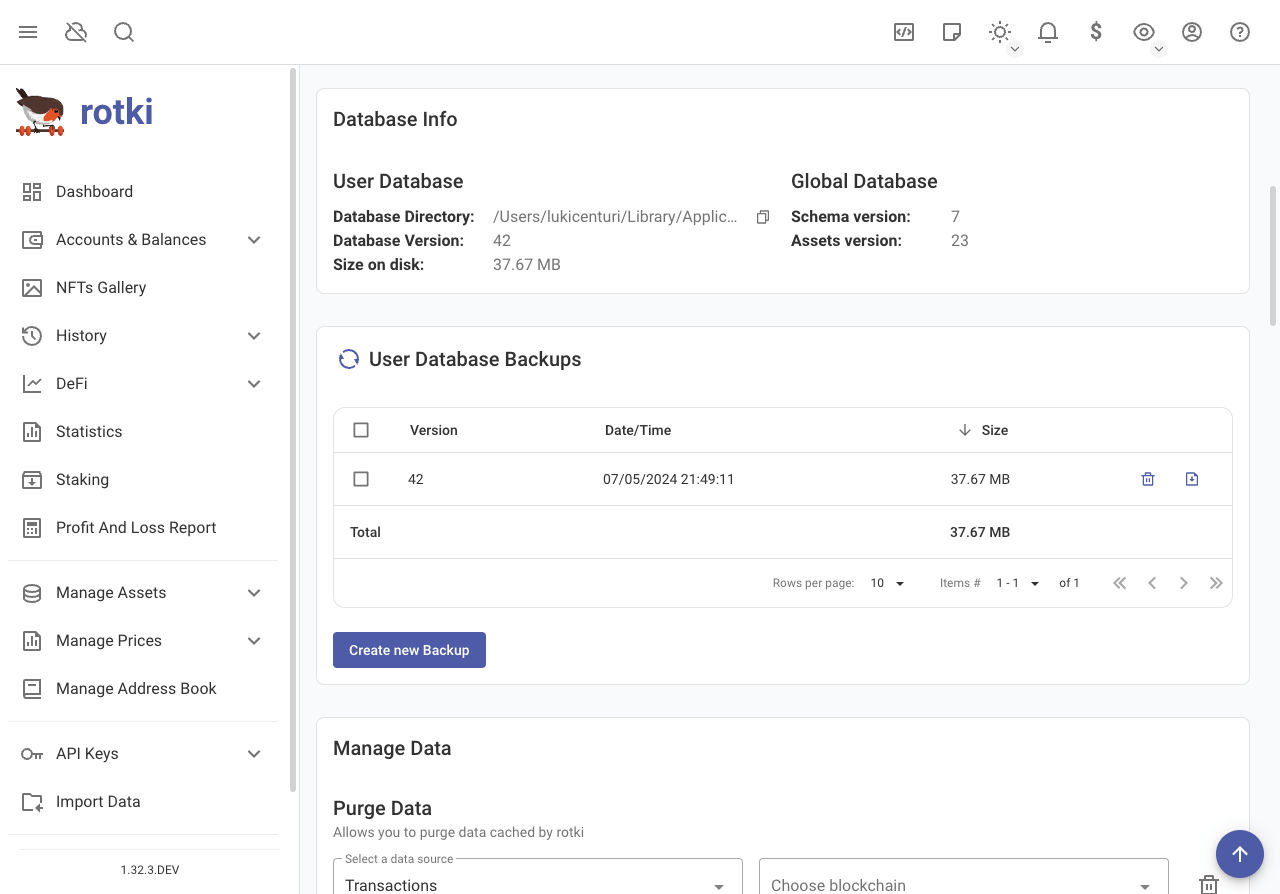
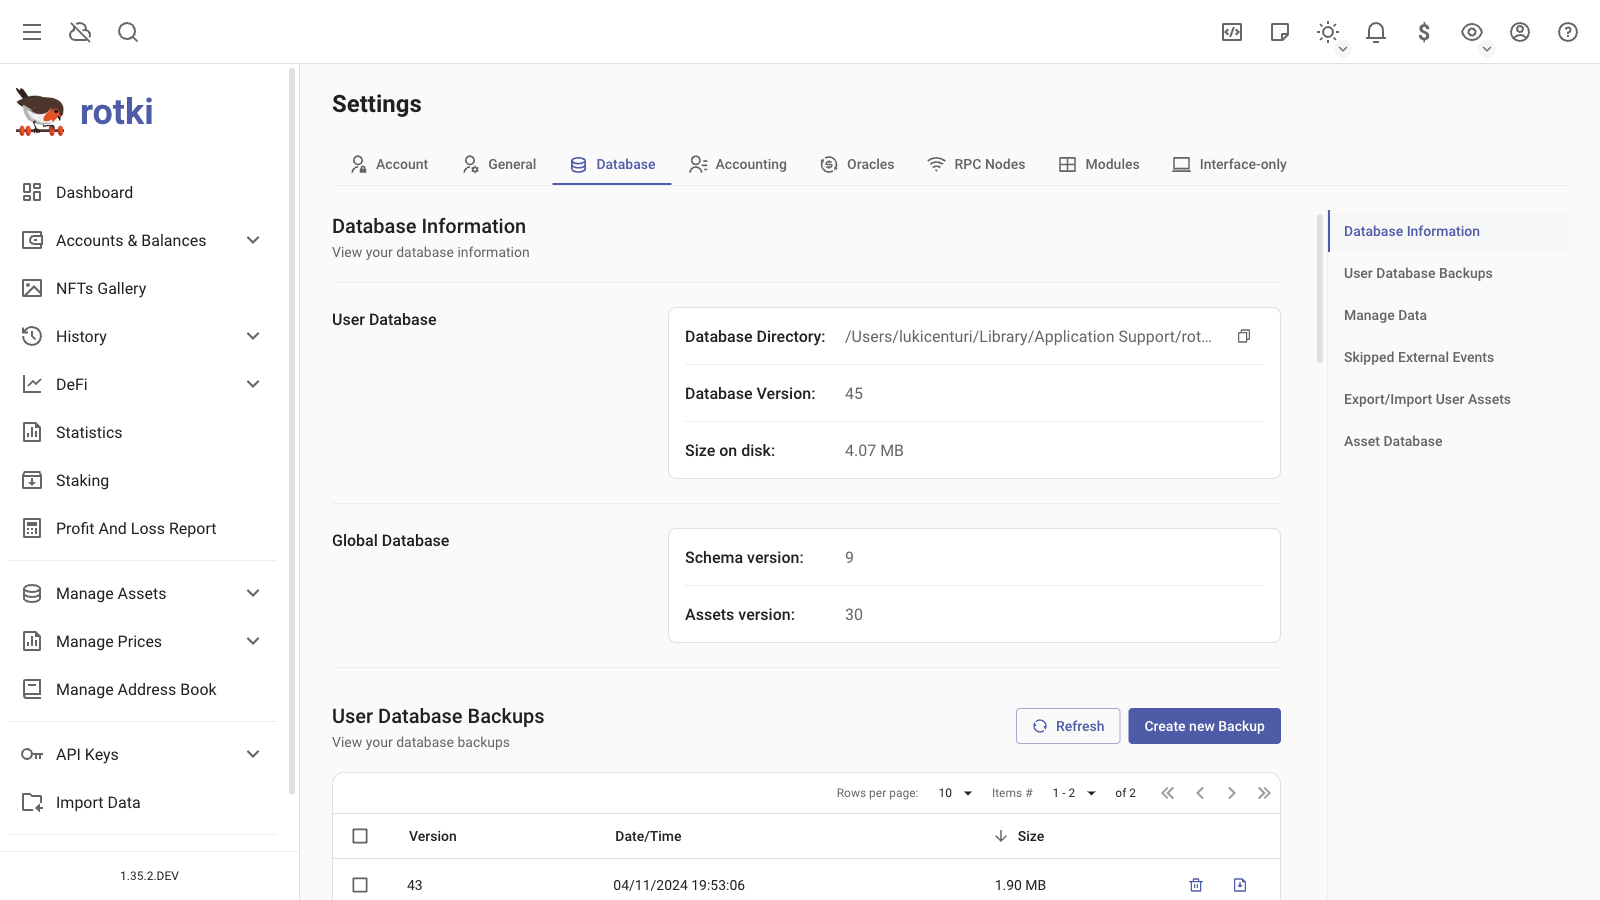
docs: update docs and screenshots for settings

diff --git a/usage-guides/customization.md b/usage-guides/customization.md
@@ -10,35 +10,43 @@ rotki calculates everything, including your total profit/loss during the PnL rep
 
 ## Application Settings
 
-Access the settings menu via `User icon → Settings`. By choosing the "General" settings button, you can customize general application settings.
+Access the settings menu via `User icon → Settings`.
+
+## Account Settings
+
+### Changing Password
+
+Choose the "User & Security" section to change the user password.
+
+![Changing the user's password](/images/sc_user_password_change.png)
+
+## General Settings
 
 ![Customizing the general app settings](/images/sc_general_settings.png)
-
-### General Settings
-
-#### Language
-
-> Set the language used in the app. This feature is experimental and may not work as expected for some languages. Help us speed up the translation process by contributing [here](/contribution-guides/contribute-as-developer.html#add-a-new-language-or-translation).
 
 #### Anonymous Usage Analytics
 
 > Specify whether the application can submit anonymous usage analytics. This helps measure active users while ensuring data is anonymized and contains no sensitive information.
 
+#### Auto detect tokens
+
+> Specify whether to automatically detect tokens and refresh balances by periodically checking historical events.
+
+#### CSV Export
+
+> Specify your preferred date format and delimiter for CSV exports.
+
+#### Automatic database sync
+
+> Whether to force push when a size discrepancy occurs during automatic db sync.
+
+#### Version update check
+
+> Set how often (in hours) the version will be checked for updates.
+
 #### Balance Data Saving Frequency
 
 > Set how often (in hours) the balance data is saved. This data helps calculate statistics and historical data for the user.
-
-#### Date Display Format
-
-> Set the date display format in the rotki user interface, such as `%m/%d/%Y %H:%M:%S` for month/day/year hour:minutes:seconds. Check [here](https://docs.python.org/3/library/datetime.html#strftime-and-strptime-format-codes) for valid formats.
-
-#### Display in Local Time
-
-> Choose whether to display local time or UTC in CSV exports, user logs, and other locations.
-
-#### BTC Derivation Gap Limit
-
-> Set the derivation gap limit for deriving addresses from a bitcoin xpub. More information [here](https://insights.blockonomics.co/bitcoin-what-is-this-gap-limit/).
 
 #### Treat Staked ETH as ETH
 
@@ -48,17 +56,25 @@ Access the settings menu via `User icon → Settings`. By choosing the "General"
 
 > Configure which EVM chains should not automatically detect tokens. By default, EVM chains detect activities of all registered EVM accounts in other EVM chains.
 
+#### BTC Derivation Gap Limit
+
+> Set the derivation gap limit for deriving addresses from a bitcoin xpub. More information [here](https://insights.blockonomics.co/bitcoin-what-is-this-gap-limit/).
+
+#### Date Format
+
+> Set the date display and date input format in the rotki user interface, such as `%m/%d/%Y %H:%M:%S` for month/day/year hour:minutes:seconds. Check [here](https://docs.python.org/3/library/datetime.html#strftime-and-strptime-format-codes) for valid formats.
+
 ### Amount Settings
 
 ![Customizing the app's amount settings](/images/sc_amount_settings.png)
 
-#### Floating Precision
-
-> Set the number of decimal points shown in the UI for floating point numbers.
-
 #### Main Currency
 
 > Same as [changing the profit currency](#profit-currency).
+
+#### Floating Precision
+
+> Set the number of decimal points shown in the UI for floating point numbers.
 
 #### Thousands Separator
 
@@ -68,7 +84,7 @@ Access the settings menu via `User icon → Settings`. By choosing the "General"
 
 > Set the symbol separating the floating part of a number, e.g., `5.42`.
 
-#### Use Abbreviations for Large Numbers
+#### Abbreviation for large numbers
 
 > If enabled, large numbers will be abbreviated, e.g., `1,234,567` as `1.23 M`. Set the minimum value to be abbreviated.
 
@@ -79,42 +95,6 @@ Access the settings menu via `User icon → Settings`. By choosing the "General"
 #### Amount Rounding
 
 > Choose the rounding mechanism: `Round up`, `Round down`, or `Half even`. Customize how amounts and values are rounded.
-
-### RPC Node Setting
-
-This setting lets you change the nodes used to connect to blockchains. We give you a list of public nodes, but sometimes they are busy or down. You will see a green or red icon showing if a node is working.
-
-It is good to add more nodes and set their priority. We always try your own nodes first, then use some random public nodes if needed. If you don't have your own node, we use public nodes.
-
-The node's weight (percentage) shows how likely it is to be used. You can turn nodes on or off with the toggle button.
-
-![Customizing the app's connection to EVM nodes](/images/rotki_nodes_management.png)
-
-In this menu you can also edit, delete or add more nodes.
-
-![Add an EVM node](/images/rotki_nodes_management_addition.png)
-
-### Local Nodes
-
-#### Connecting to a Kusama Client
-
-> rotki attempts to connect to a local Kusama node running on the default port `9933`. If no client is running, blockchain queries will use an external service.
-
-#### Connecting to a Polkadot Client
-
-> Set the RPC endpoint for a Polkadot node here.
-
-#### Connecting to an ETH Consensus Layer Beacon Node
-
-> Set the RPC endpoint for the Ethereum consensus layer beacon node. If unreachable, beaconcha.in will be used. For DAppNode Ethereum validator users, find the RPC node setting in the DAppNode Package for the Execution Client.
-
-### Price Oracle Settings
-
-![Customizing the app's price oracle settings](/images/sc_priceoracle_settings.png)
-
-Here, you can customize the order in which price oracles are queried, both for current and historical prices. This determines which price source to check first, second, and so on.
-
-DeFi oracles like Uniswap V2 and Uniswap V3 use only on-chain information to get current prices. This makes querying a bit slower, but it relies solely on the Ethereum chain. Prices for some assets may differ from Coingecko or CryptoCompare, depending on the conditions of the pools at the time of the query.
 
 ### NFT Settings
 
@@ -132,49 +112,42 @@ DeFi oracles like Uniswap V2 and Uniswap V3 use only on-chain information to get
 
 > Define rules for retry and timeout for external service calls made by rotki.
 
-### Frontend Only Settings
+## Database Settings
 
-![Customizing the app's frontend only settings](/images/sc_frontendonly_settings1.png)
+### Database Info & User Database Backups
 
-#### Animation Effect
+View information about your user and global database, such as directory, size, and version.
 
-> Reduce animation effects to improve performance. This affects animation quality but optimizes resource usage.
+![Creating database backups](/images/sc_db_backup.png)
 
-#### Alias Name for Addresses
+Create new database backups, delete backups, and download backups locally.
 
-> Enable or disable alias names for blockchain addresses. Aliases are obtained from `ENS`, `addressbook`, or `blockchain account label`. Change the order of resolution as needed.
+### Purging Data
 
-#### Data Scrambling
+rotki keeps a lot of data cached locally. Clean this data periodically from the "Manage Data" section in the settings. Remove specific exchanges by first removing any active API keys.
 
-> Enable data scrambling to randomize amounts, dates, and other data for privacy in screenshots. This setting does not persist across sessions.
+![Purging user data](/images/sc_purge_data.png)
 
-#### Dashboard Graph Default Timeframe
+### Exporting and Importing User Assets
 
-> Set the default timeframe for the dashboard graph, which will be pre-selected upon login.
+Use the export/import function to migrate user assets between computers. This function creates a zip archive of user assets for transfer.
 
-#### Graph Basis
+![Importing user assets](/images/sc_custom_import_export.png)
 
-> Configure whether the graph y-axis starts at 0 or the minimum amount for the period.
+::: warning
+This archive cannot be used as a backup/restore across different versions of rotki since there is no guarantee of compatibility across versions.
+:::
 
-#### Automatic Balance Refresh
+### Reset Assets Database
 
-> Enable or disable automatic balance refresh and set the refresh interval. Disabled by default due to potential slow queries and rate limits.
+There are two options to reset the assets database:
 
-#### Periodic Status Query
-
-> Set the frequency of backend data updates. Default is 5 seconds.
-
-![Customizing the app's frontend only settings](/images/sc_frontendonly_settings2.png)
-
-#### Blockchain Explorer Customization
-
-> Customize which explorer is used for transaction and address links.
-
-#### Theme [Premium]
-
-> Premium users can customize colors for light or dark mode.
+1. **Soft Reset**: This option will not reset assets added by the user.
+2. **Hard Reset**: This option will reset assets added by the user.
 
 ## Accounting Settings
+
+![Customizing the accounting rules](/images/sc_accounting_custom_rule.png)
 
 By choosing the "Accounting" settings button, you can customize application settings related to accounting calculations.
 
@@ -184,13 +157,11 @@ The default settings are currently tailored for the German tax jurisdiction. For
 
 ### Custom Accounting Rules
 
-![Customizing the accounting rules](/images/sc_accounting_custom_rule.png)
-
 Customize accounting rules based on `Event type`, `Event sub type`, and `Counterparty`.
 
 ### Trade Settings
 
-![Customizing the accounting trade settings](/images/sc_accounting_settings.png)
+![Customizing the accounting trade settings](/images/sc_accounting_trade_settings.png)
 
 #### Crypto to Crypto Trades
 
@@ -285,54 +256,51 @@ The above does not happen.
 
 > Specify whether the all_events CSV export should include a summary of all events and the total profit/loss at the end. This summary would also include the rotki version and the settings used during the PnL report, making it easier to reproduce a report run.
 
-## Data & Security Settings
+## Price Oracle Settings
 
-### Changing Password
+![Change the order of price sources](/images/sc_price_oracle_order.png)
 
-Choose the "User & Security" section to change the user password.
+Here, you can customize the order in which price oracles are queried, both for current and historical prices. This determines which price source to check first, second, and so on.
 
-![Changing the user's password](/images/sc_user_password_change.png)
+DeFi oracles like Uniswap V2 and Uniswap V3 use only on-chain information to get current prices. This makes querying a bit slower, but it relies solely on the Ethereum chain. Prices for some assets may differ from Coingecko or CryptoCompare, depending on the conditions of the pools at the time of the query.
 
-### Database Info & User Database Backups
+### Oracle cache
 
-View information about your user and global database, such as directory, size, and version.
-
-![Creating database backups](/images/sc_db_backup.png)
-
-Create new database backups, delete backups, and download backups locally.
-
-### Exporting and Importing User Assets
-
-Use the export/import function to migrate user assets between computers. This function creates a zip archive of user assets for transfer.
-
-![Importing user assets](/images/sc_custom_import_export.png)
-
-::: warning
-This archive cannot be used as a backup/restore across different versions of rotki since there is no guarantee of compatibility across versions.
-:::
-
-### Reset Assets Database
-
-There are two options to reset the assets database:
-
-1. **Soft Reset**: This option will not reset assets added by the user.
-2. **Hard Reset**: This option will reset assets added by the user.
-
-### Purging Data
-
-rotki keeps a lot of data cached locally. Clean this data periodically from the "Manage Data" section in the settings. Remove specific exchanges by first removing any active API keys.
-
-![Purging user data](/images/sc_purge_data.png)
-
-### Manage Historical Price Oracle Cache
+![Creating a historical price cache](/images/sc_historical_price_cache.png)
 
 Querying historical prices from oracles such as CryptoCompare and CoinGecko is slow and can be slower due to rate limiting. rotki creates historical price caches during idle times.
 
 Request the creation of such a cache by going to the Oracle cache section, selecting the oracle, the from asset of the pair, the to asset of the pair, and then pressing "Cache pair prices".
 
-![Creating a historical price cache](/images/sc_historical_price_cache.png)
-
 Manage existing historical price cache entries, inspect start and end dates, and delete caches if needed.
+
+## RPC Node Setting
+
+This setting lets you change the nodes used to connect to blockchains. We give you a list of public nodes, but sometimes they are busy or down. You will see a green or red icon showing if a node is working.
+
+It is good to add more nodes and set their priority. We always try your own nodes first, then use some random public nodes if needed. If you don't have your own node, we use public nodes.
+
+The node's weight (percentage) shows how likely it is to be used. You can turn nodes on or off with the toggle button.
+
+![Customizing the app's connection to EVM nodes](/images/rotki_nodes_management.png)
+
+In this menu you can also edit, delete or add more nodes.
+
+![Add an EVM node](/images/rotki_nodes_management_addition.png)
+
+### Local Nodes
+
+#### Connecting to a Kusama Client
+
+> rotki attempts to connect to a local Kusama node running on the default port `9933`. If no client is running, blockchain queries will use an external service.
+
+#### Connecting to a Polkadot Client
+
+> Set the RPC endpoint for a Polkadot node here.
+
+#### Connecting to an ETH Consensus Layer Beacon Node
+
+> Set the RPC endpoint for the Ethereum consensus layer beacon node. If unreachable, beaconcha.in will be used. For DAppNode Ethereum validator users, find the RPC node setting in the DAppNode Package for the Execution Client.
 
 ## Module Settings
 
@@ -351,6 +319,52 @@ View all modules in the table. Some are activated by default. Enable/disable a m
 ![Select address for modules](/images/module_settings_select_address.png)
 
 To limit querying to selected addresses, click the "edit/pencil" button on the module to select addresses. If no addresses are selected, rotki checks all eligible addresses, increasing query duration.
+
+## Interface-only Settings
+
+![Customizing the app's interface only settings](/images/sc_interface_only_settings.png)
+
+#### Language
+
+> Set the language used in the app. This feature is experimental and may not work as expected for some languages. Help us speed up the translation process by contributing [here](/contribution-guides/contribute-as-developer.html#add-a-new-language-or-translation).
+
+#### Animation Effect
+
+> Reduce animation effects to improve performance. This affects animation quality but optimizes resource usage.
+
+#### Data Scrambling
+
+> Enable data scrambling to randomize amounts, dates, and other data for privacy in screenshots. This setting does not persist across sessions.
+
+#### Automatic Balance Refresh
+
+> Enable or disable automatic balance refresh and set the refresh interval. Disabled by default due to potential slow queries and rate limits.
+
+#### Periodic Status Query
+
+> Set the frequency of backend data updates. Default is 5 seconds.
+
+#### Blockchain Explorer Customization
+
+> Customize which explorer is used for transaction and address links.
+
+### Graph Settings
+
+#### Dashboard Graph Default Timeframe
+
+> Set the default timeframe for the dashboard graph, which will be pre-selected upon login.
+
+#### Graph Basis
+
+> Configure whether the graph y-axis starts at 0 or the minimum amount for the period.
+
+### Alias Name for Addresses
+
+> Enable or disable alias names for blockchain addresses. Aliases are obtained from `ENS`, `addressbook`, or `blockchain account label`. Change the order of resolution as needed.
+
+### Theme Customization [Premium]
+
+> Premium users can customize colors for light or dark mode.
 
 ## Backend Settings
 
